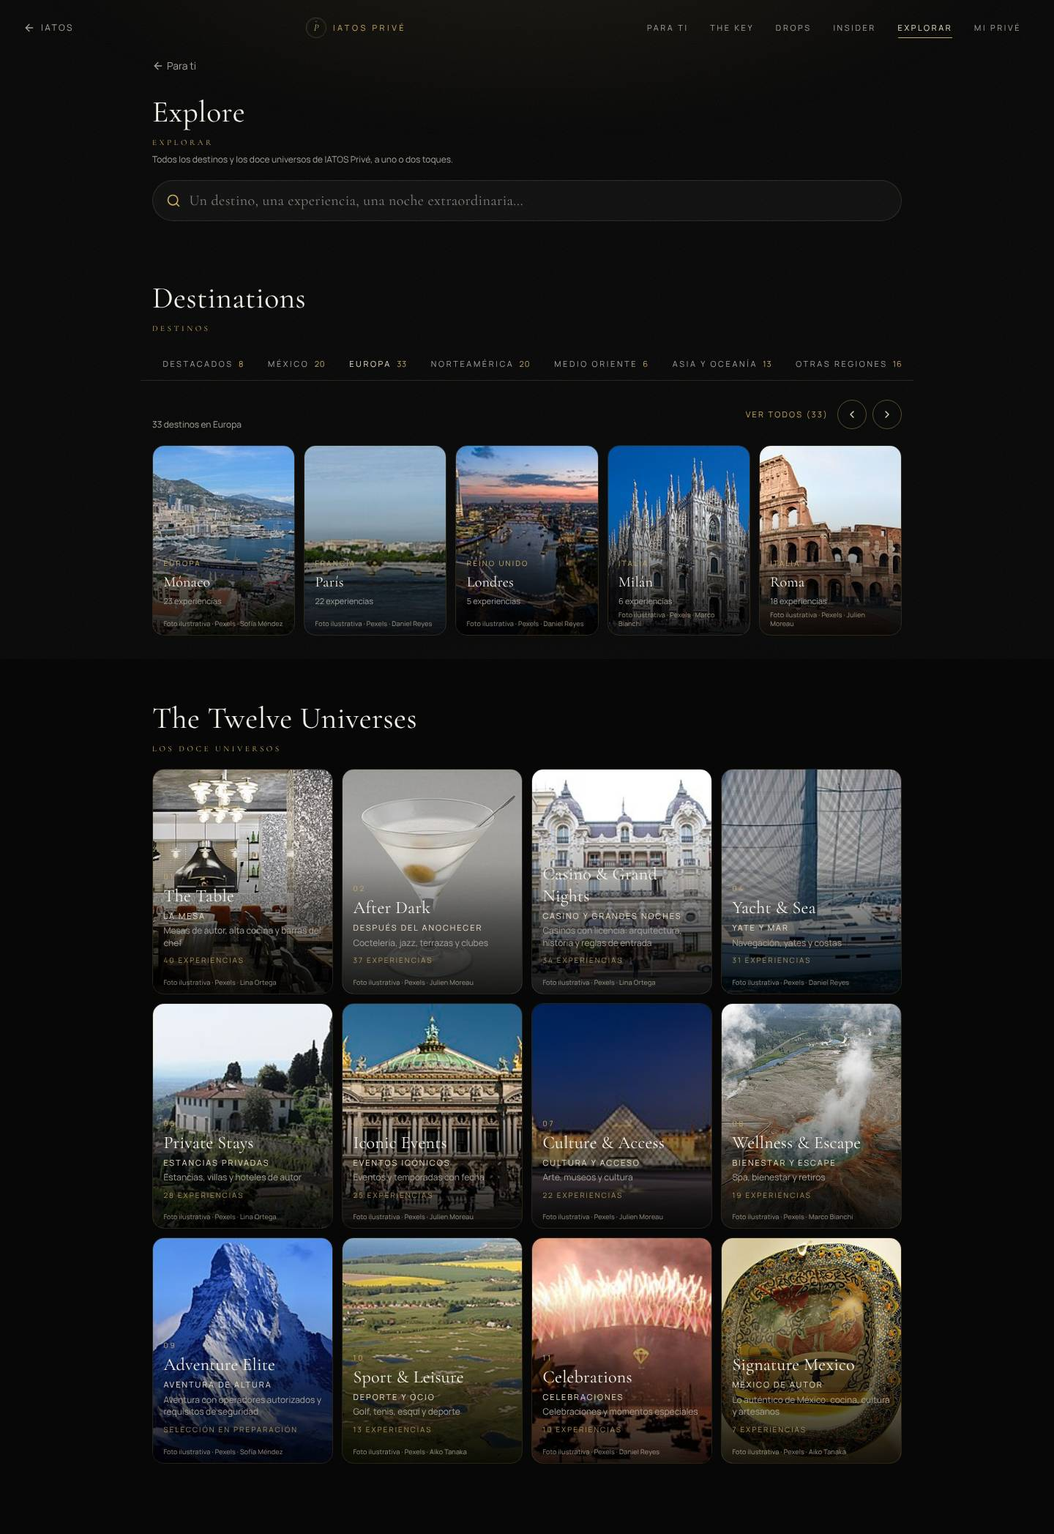
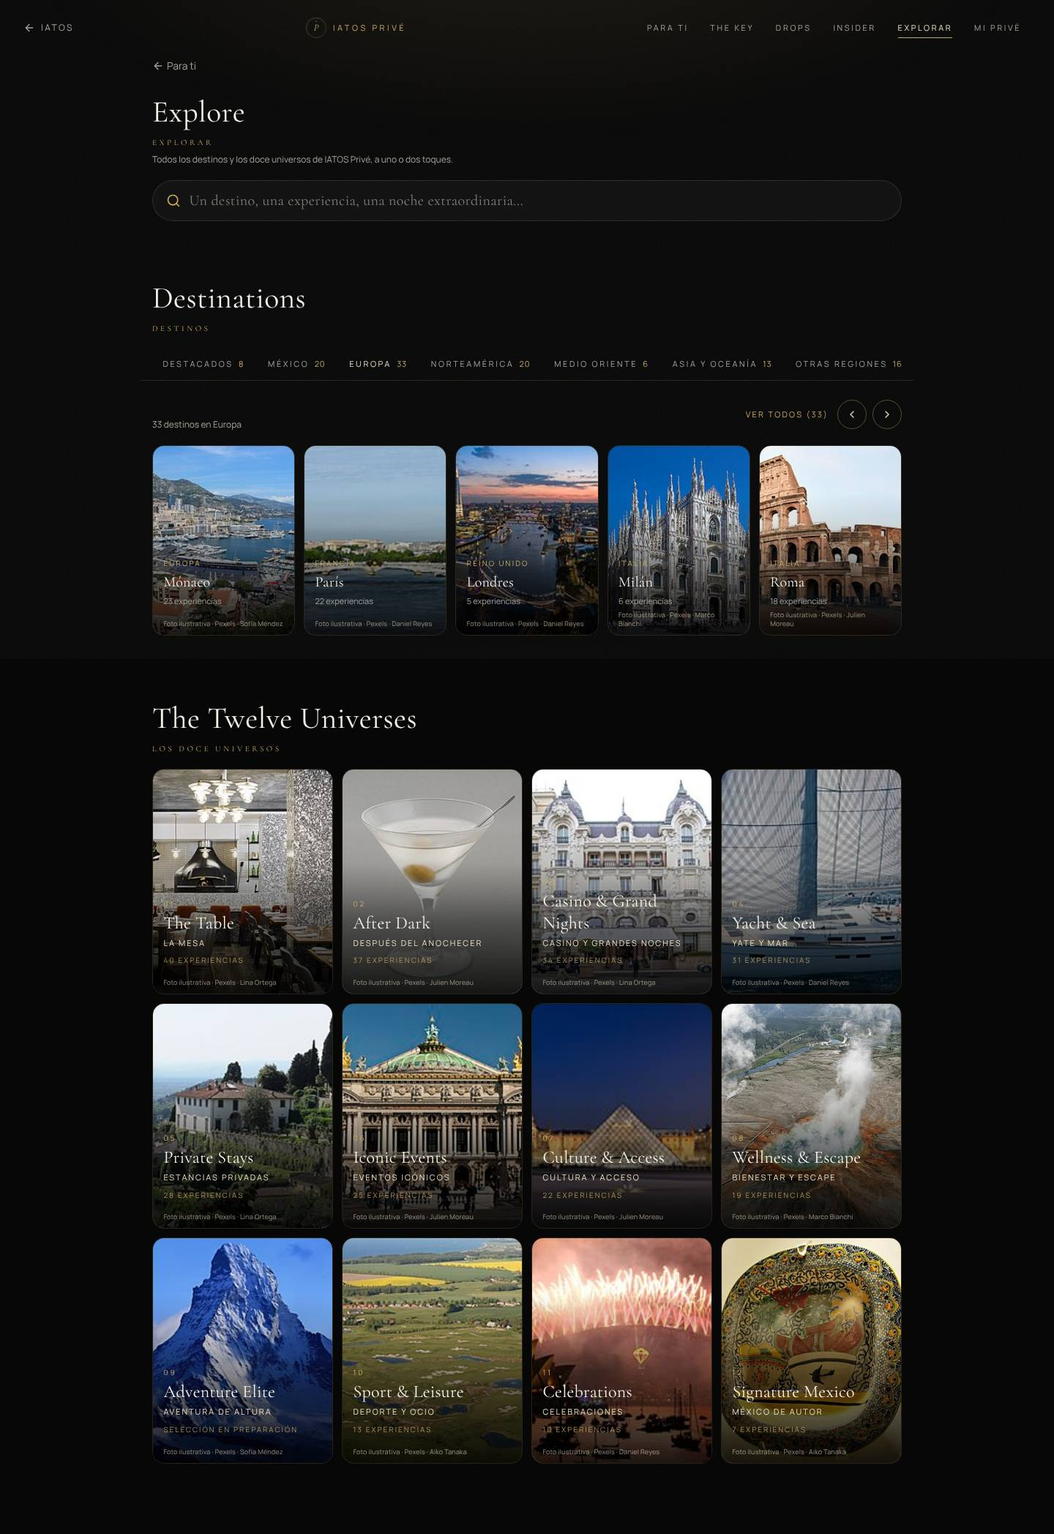
Privé reimaginado: reporte de prive-ux, E2E 26/26, capturas finales y ajustes de móvil
Claude-Session: https://claude.ai/code/session_01GcD1is1yKfb8FqzW8huxBy

diff --git a/src/components/prive/home/sections.tsx b/src/components/prive/home/sections.tsx
@@ -85,7 +85,6 @@ export function TwelveUniverses({ universes, layout = "grid" }: { universes: { k
               <p className="text-[10px] tracking-[0.3em] prive-gold">{String(i + 1).padStart(2, "0")}</p>
               <p className="prive-serif text-2xl leading-tight mt-1">{u.name}</p>
               {u.sub && <p className="text-[11px] tracking-[0.18em] uppercase prive-champagne mt-1">{u.sub}</p>}
-              <p className="text-[12px] prive-muted leading-snug mt-1 line-clamp-2">{u.es}</p>
               <p className="text-[10px] tracking-[0.2em] uppercase prive-gold mt-2 opacity-80">{n > 0 ? t.common.experiences(n) : t.explore.preparing}</p>
             </div>
           </PrivePhoto>

diff --git a/src/components/prive/prive.css b/src/components/prive/prive.css
@@ -257,6 +257,7 @@
 .prive-search input { flex: 1; min-width: 0; background: transparent; border: 0; outline: none; color: var(--pv-text);
   font-family: var(--pv-serif); font-size: 1.25rem; letter-spacing: 0.02em; }
 .prive-search input::placeholder { color: rgba(168, 162, 153, 0.75); }
+@media (max-width: 639px) { .prive-search input { font-size: 1.05rem; } }
 .prive-search input::-webkit-search-cancel-button { display: none; }
 /* El anillo va en la cápsula (focus-within), no un rectángulo dentro de ella. */
 .prive-root .prive-search input:focus-visible { outline: none; }

diff --git a/docs/iatos/prive_reimagined/prive-ux.md b/docs/iatos/prive_reimagined/prive-ux.md
@@ -1,0 +1,193 @@
+# IATOS Privé · The World Reimagined · reporte de prive-ux
+
+Rama: `claude/wc-prive-ux`, construida sobre `claude/iatos-world-class` con `claude/cierre-auditoria` unida (los cambios del líder en contraseña y sesión Privé siguen intactos). No hubo push, despliegue, migración ni producción.
+
+Alcance: Documento A completo para las áreas de prive-ux más el shell de seis áreas del Documento B §4: FOR YOU (maquetación), EXPLORE, fichas, sistema de fotos, tarjetas, MY PRIVÉ (visual), idioma, móvil, las tres propuestas de portada y los casos E2E 1–26.
+
+## Resumen
+
+- **Primera pantalla.** Foto a sangre completa del destino de tu próximo viaje, o de un destino emblemático que cambia en cada visita. Encima: IATOS PRIVÉ, **The World, Beyond Ordinary.** con su subtítulo en español, una línea personal ("Rodrigo, tu próximo capítulo: Ciudad de México."), los botones **Explora tu mundo** y **Pregúntale a Iato**, y la búsqueda universal, que a 390 px ya se ve sin desplazarse.
+- **Sin listas infinitas.** A 390 px, el hub pasó de **10,624 px** de tarjetas de texto a unas cinco pantallas de carruseles con foto. Cualquier destino queda a dos acciones (escribir y tocar, o pestaña y tarjeta) y cualquier ficha a tres desde la búsqueda.
+- **Ninguna tarjeta queda vacía.** La causa raíz de las fotos faltantes está corregida (ver §4). Si de verdad no hay foto, aparece un respaldo de marca con el nombre en filigrana.
+- **Idioma.** El texto está en español por omisión y en inglés si el idioma principal de la persona es inglés. Las marcas se quedan en inglés con subtítulo en español.
+- **Seis áreas.** FOR YOU · THE KEY · PRIVÉ DROPS · INSIDER · EXPLORE · MY PRIVÉ, con rutas propias. THE KEY, DROPS e INSIDER son, por ahora, páginas honestas de "en preparación" con ranuras listas para los equipos `privekey` y `privevalor`.
+- **E2E 26/26 PASS** contra vite local con servidor simulado. Pruebas unitarias nuevas: `priveUx.test.tsx` (23) y `priveReimagined.test.tsx` (15).
+
+## 1. Fase 0: diagnóstico verificado en HEAD
+
+| # | Hallazgo de ChatGPT | Verificación en el código | Estado |
+|---|---|---|---|
+| 1 | Portada vacía, solo texto | `PriveHub.tsx` (antes): `<h1>` con "The World, Beyond Ordinary." sobre negro, sin imagen. Captura `antes-hub-*.jpg` | CONFIRMADO → CORREGIDO (`PriveHero.tsx`) |
+| 2 | Destinos = lista enorme sin fotos | `hubSections.tsx` (antes): `GROUPS.map` con todas las regiones abiertas y `prive-tile` de solo texto, unos 108 destinos. `antes-hub-390.jpg`: 10,624 px de alto | CONFIRMADO → CORREGIDO |
+| 3 | PriveImage puede dejar un bloque vacío | `PriveImage.tsx` (antes): sin foto dibujaba `<div className="h-full w-full" aria-hidden>` vacío; un 429 quedaba en caché como "sin foto" | CONFIRMADO → CORREGIDO (`PrivePhoto.tsx`) |
+| 4 | Universos como botones de texto | `CatalogHome`: `prive-btn-ghost` "THE TABLE · 412" | CONFIRMADO → CORREGIDO |
+| 5 | UniverseTiles sin navegación | `UniverseTiles.tsx`: `<li>` sin enlace | CONFIRMADO → CORREGIDO (`TwelveUniverses`: 12 enlaces; UniverseTiles solo queda para el adelanto y "en curaduría") |
+| 6 | Universos duplicados con las colecciones de abajo | Fichas de universo arriba y `UniverseTiles` abajo en el mismo hub | CONFIRMADO → CORREGIDO (FOR YOU: The Extraordinary Edit; los 12 universos, solo en EXPLORE) |
+| 7 | Sin explorador global | No existía | CONFIRMADO → CORREGIDO (`UniversalSearch` + `/prive/explorar`) |
+| 8 | Contadores con demasiado protagonismo | "25 experiencias · Selección en crecimiento" en cada tarjeta | CONFIRMADO → CORREGIDO (relación geográfica primero; el conteo, secundario; cobertura solo cuando advierte algo) |
+| 9 | El escritorio desaprovecha el espacio | Una columna `max-w-5xl` de texto | CONFIRMADO → CORREGIDO (portada a sangre completa, rejilla editorial, carriles) |
+| 10 | No prioriza el viaje activo | El hub no leía el viaje | CONFIRMADO → CORREGIDO (portada, Curated for You y Your Next Journey usan el viaje activo resuelto con `resolveActiveTrip`; nunca otro viaje) |
+
+## 2. Qué se construyó (por fase)
+
+| Fase | Entrega | Archivos |
+|---|---|---|
+| 1 Portada | Portada cinematográfica (destino del viaje o emblemático que rota; Ken Burns; video ilustrativo de Pexels solo con movimiento permitido y sin ahorro de datos). Búsqueda universal bajo la portada. Curated for You (3–6). The Extraordinary Edit (8 colecciones que abren universos existentes; se ocultan las que no tienen contenido publicable). Your Next Journey con sus cuatro acciones, o "Planear un viaje" si no hay viaje. | `PriveHero.tsx`, `home/ForYouHome.tsx`, `home/sections.tsx`, `home/defaults.tsx`, `home/UniversalSearch.tsx` |
+| 2 Navegación | Seis áreas. En escritorio, arriba. En el teléfono, una barra inferior con cinco (Para ti, The Key, Explorar, Drops, Mi Privé) e Insider en la barra superior: las seis a un toque. Área activa con `aria-current`. Filtros y búsqueda en la URL. "Pregúntale a Iato" abre el Concierge existente con la pregunta escrita (`?ask=`), no un chatbot nuevo. | `shell/PriveNav.tsx`, `PriveRoot.tsx`, `lib/priveLinks.ts`, `pages/Concierge.tsx` (una línea) |
+| 3 Destinos | Destacados (6–8, con contenido). Pestañas por región, una a la vez, con carrusel e índice compacto "Ver todos (N)". Búsqueda con alias, acentos e idiomas. Relación geográfica correcta: Polanco → "Barrio de Ciudad de México"; Montecarlo → "Zona de Mónaco"; Punta Mita → "En Riviera Nayarit"; Interlomas → "Área metropolitana de Ciudad de México"; Riviera Nayarit → "Región · México". | `catalog/DestinationBrowser.tsx`, `lib/priveBrowse.ts`, `lib/priveDestinationIndex.ts` (generado) |
+| 4 Universos | Doce universos con foto, marca + subtítulo, descripción y número de orden, todos navegables. Página de universo con portada, filtro por destino (en la URL) y destinos relacionados. Sin contenido: "Selección en preparación". | `home/sections.tsx` (`TwelveUniverses`), `PriveUniversePage.tsx` |
+| 5 Tarjetas | FEATURED EXPERIENCE (Descubrir y Guardar a la vista), DESTINATION, EDITORIAL COLLECTION (rejilla de revista 2×2 + 1 + 4 + 2) y COMPACT EXPERIENCE (búsqueda). | `home/defaults.tsx`, `home/UniversalSearch.tsx`, `catalog/DestinationBrowser.tsx` |
+| 6 Fotos | Ver §4. | `PrivePhoto.tsx`, `lib/privePhoto.ts`, `lib/stockPhoto.ts`, `pexels-image` |
+| 7 Ficha | Portada más grande, "Por qué merece la pena" destacado y acciones a la vista: **Guardar en Mi Privé · Agregar a mi viaje · Solicitar con Iato · Ver opciones de reserva** (sitio oficial, otra pestaña) **· Pregúntale a Iato**. Al final, "Más en <ciudad>". | `catalog/ExperienceDetail.tsx`, `catalog/MoreInDestination.tsx`, `PriveExperiencePage.tsx` |
+| 8 Make it extraordinary | Lanzador de The Privé Key en FOR YOU (texto → `/prive/key?q=…&destino=…`). El organizador completo es de `privekey`. | `home/defaults.tsx` (`PriveKeyLauncher`) |
+| 9 Mi Privé | `/prive/mi`: tarjeta, Pasaporte (ranura), guardados con foto, solicitudes abiertas, el valor de tu Privé (ranura) y preferencias y seguridad (las secciones de membresía de siempre). `/prive/membresia` se conserva. | `PriveMyPage.tsx`, `PriveMembership.tsx` (`embedded`) |
+| 10 WOW | La Grand Welcome aparece solo la primera vez (sin cambios de lógica). Transiciones suaves con movimiento reducido. No se dice "Tonight, somewhere extraordinary" porque no hay contenido fechado suficiente. | — |
+| 11 Móvil | Revisado a 320, 375, 390, 412, 768, 1024 y 1440 px sin desplazamiento horizontal (E2E 22). Botones de al menos 44 px. La barra inferior no tapa acciones: el contenido deja libre su alto. | `prive.css` |
+| 12 Scroll | 6–8 destacados en la portada y el resto en el explorador. "Ver más" de 9 en 9. Estado restaurable en la URL (`?q=`, `?region=`, `?u=`, `?destino=`) y enlaces profundos. | `catalog/ShowMore.tsx` |
+| 13 Tres propuestas | Ver §3. | `home/ForYouHome.tsx`, `PriveHero.tsx` |
+
+## 3. Tres propuestas de portada (las tres funcionan con los mismos datos)
+
+Para verlas: `/prive?portada=a`, `?portada=b` o `?portada=c` (por omisión, c). Capturas: `despues-home-{a,b,c}-{390,1440}.jpg`.
+
+- **A · A PRIVATE EDITORIAL.** Portada de revista en dos columnas: número de edición, titular serif grande y foto vertical; la experiencia de la semana va primero.
+- **B · CONTEMPORARY PRIVATE CLUB.** Saludo de club con "Miembro desde", cuatro accesos directos (The Key, Drops, Insider, Explorar) y listas compactas.
+- **C · CINEMATIC JOURNEY.** Foto o video a sangre completa, búsqueda sobre el borde de la portada y carriles de imagen.
+
+Medido con Playwright contra vite local con datos simulados (servidor de desarrollo: el LCP es indicativo y varía con la carga de la máquina):
+
+| Criterio | A | B | C |
+|---|---|---|---|
+| Búsqueda visible en la primera pantalla a 390 px | No (886 px) | No (874 px) | **Sí (711 px)** |
+| Búsqueda visible a 1440 px | Sí | Sí | Sí |
+| Acciones en la primera pantalla | 10–11 | **15** | 12 |
+| CLS (390 / 1440) | 0 / 0.002 | 0.002 / 0.002 | 0.007 / 0.002 |
+| Imágenes de Pexels en la primera pantalla | 4–5 | **1** | 2 |
+| Prestigio (dirección de arte, pedido del dueño: "cinematográfico, élite") | Alto (revista) | Medio (parece tablero) | **Muy alto** |
+| Accesibilidad (axe, graves) | 0 | 0 | 0 |
+| Compatibilidad (ranuras de los otros equipos, móvil) | Sí | Sí | Sí |
+
+**Elegida: C.** Es la única que cumple la meta de Fase 15 "primera pantalla con búsqueda y contenido útil" también en el teléfono, y la que mejor responde al pedido del dueño ("algo único, élite, que dé ganas de pertenecer"). Lo hace con dos imágenes en la primera pantalla y sin saltos de diseño. B queda como respaldo si se prefiere la utilidad sobre la emoción, y A como versión editorial para campañas.
+
+## 4. Fotos: causa raíz y arreglo (Fase 6)
+
+**Causa raíz.** Se reproduce en `antes-welcome-390.jpg`: Ciudad de México, Nueva York y Roma salen vacías con la "P".
+
+1. La Grand Welcome (`priveApi.illustrativePhoto`) y las tarjetas del catálogo (`PriveImage`) llamaban a `pexels-image` por su cuenta, sin la fila compartida de `stockPhoto.ts` (20 por minuto, 3 a la vez, pausa tras 429). El servidor permite 30 por minuto por persona y contaba también los aciertos de caché, así que cualquier ráfaga devolvía 429.
+2. Un 429, o un fallo de Pexels mismo (cuota de 200 por hora de la llave), se quedaba como "sin foto" para siempre. Además, `pexels-image` respondía `200 + image:null` cuando Pexels fallaba, que es igual a "no hay foto"; el navegador lo recordaba toda la sesión.
+3. La lista de destinos ni siquiera pedía foto, y la portada del destino usaba "<name_en> skyline", que no sirve para islas, valles ni barrios.
+
+**Arreglo.**
+- `PrivePhoto` y `privePhoto.ts`: todo pasa por `loadStockPhoto`, con la misma fila y la misma caché de sesión. Cada destino tiene una cadena de consultas: curada → "<ciudad> <país>" → "<ciudad>". Un fallo temporal no se recuerda y se reintenta a los 4, 15 y 45 s. La foto se pide solo cuando la tarjeta está en pantalla (margen vertical, no a la derecha del carrusel) y se muestra con una transición suave y alto reservado (sin saltos de diseño). Si de verdad no hay foto, aparece el respaldo de marca. El crédito "Foto ilustrativa · Pexels · <fotógrafo>" va en cada foto: como texto dentro de tarjetas enlazadas (un enlace anidado abría otra pestaña) y como enlace en portadas.
+- `pexels-image` (**requiere desplegar la función**):
+  - la caché va antes del límite estricto, con un límite propio y amplio para aciertos;
+  - si Pexels falla, sirve la copia vencida o responde `503 + Retry-After` con `upstream_error`;
+  - la respuesta de Pexels se lee con tolerancia a errores.
+- El índice de destinos (`scripts/prive/gen_destination_index.mjs` → `src/lib/priveDestinationIndex.ts`, 111 destinos) guarda el nombre en inglés, el país, los alias, el barrio o zona, la zona metropolitana y las consultas de foto.
+- Mientras la bienvenida o la guía están abiertas, el hub no se monta, así que las seis ciudades se atienden primero.
+- Fotos reales del establecimiento: no hay fuente con derechos verificados en el repositorio, así que todas siguen marcadas como ilustrativas, como pide la Fase 6. Las capturas de evidencia usan fotos de Wikipedia como sustituto local de las respuestas de Pexels (servidor simulado); no se usan en la app.
+
+## 5. Contrato con privekey y privevalor
+
+- Rutas dentro de `PriveRoot`: `/prive`, `/prive/key`, `/prive/drops`, `/prive/insider`, `/prive/insider/:destino`, `/prive/explorar` y `/prive/mi` (`/prive/membresia` se conserva). Están en `App.tsx`.
+- `src/components/prive/key/index.ts` (**stub de prive-ux; lo reemplaza privekey**) exporta `PriveKeyLauncher`, `YourWorldIsReady`, `CuratedForYou` y `YourNextJourney`. Por ahora reexporta las versiones funcionales de `src/components/prive/home/defaults.tsx`; `YourWorldIsReady` no dibuja nada.
+- `src/components/prive/value/index.ts` (**stub; lo reemplaza privevalor**) exporta `PrivateEditTeaser`, `DropsTeaser`, `PassportCard` y `ValueOfYourPrive`. Hoy devuelven `null`: no se inventan oportunidades ni valores.
+- Páginas stub (las reemplazan sus dueños): `PriveKeyPage.tsx`, `PriveDropsPage.tsx` y `PriveInsiderPage.tsx`. Muestran "En preparación", la marca con su subtítulo y "Pregúntale a Iato"; nunca una página vacía.
+- Contexto para las ranuras, sin props: `usePriveHome()` (datos de prive_home) y `usePriveTrip()` (viaje activo y su destino de Privé) en `src/components/prive/home/context.tsx`.
+- `The Privé Key` recibe `?q=<texto>&destino=<slug>` desde el lanzador y desde la tarjeta del viaje ("Organizar una noche").
+- Nuevo en `priveCatalogApi`: `search()` (prive_search existente) y `limit` opcional en `universe()` y `forYou()`. Son RPC existentes; no hay cambios de base de datos.
+
+## 6. Idioma
+
+- `src/lib/priveI18n.ts`: diccionario es/en tipado (la misma forma en los dos idiomas; lo comprueba una prueba).
+- Cómo se decide el idioma (`resolvePriveLang`): 1) un campo de idioma del perfil, cuando exista (`profiles` no lo tiene hoy), 2) `navigator.languages`, 3) español.
+- `PriveLangProvider` pone `lang="es-MX"` o `lang="en"`.
+- Marcas en inglés con subtítulo: IATOS PRIVÉ, The World, Beyond Ordinary., Curated for You, The Extraordinary Edit, Your Next Journey, The Privé Key, Privé Drops, Insider, los doce universos y las ocho colecciones.
+- Pendientes de otros dueños:
+  - `LockScreen.tsx` y `PasswordCreator.tsx` (del líder) siguen solo en español; sus errores cambian de idioma por `messageFor`.
+  - El correo de invitación (`_shared/priveEmail`) conserva sus líneas en inglés.
+
+## 7. E2E (Fase 15) · Playwright contra vite local, servidor simulado, sin sesiones reales
+
+Resultado: **26/26 PASS** (`docs/iatos/prive_reimagined/prive-ux-e2e.json`). En la primera corrida fallaron dos casos: el 10, por un selector de la prueba sensible a mayúsculas, y el 24, por CLS 0.122. El 24 era un defecto real y está corregido en §8.
+
+| # | Caso | Resultado y evidencia |
+|---|---|---|
+| 1 | Miembro ve la portada completa | 7/7 secciones; búsqueda en la primera pantalla; 0 errores JS |
+| 2 | FREE ve solo lo autorizado | Adelanto; sin barra de miembro; 0 RPC de contenido |
+| 3 | Búsqueda Mónaco | «Mónaco» → /prive/destino/mc (2 acciones) |
+| 4 | CDMX | «cdmx» → /prive/destino/cdmx |
+| 5 | Restaurante | «Quintonil» → prive_search en los 5 destinos destacados → ficha en 3 acciones |
+| 6 | Sin resultados | Lo dice, y "Pregúntale a Iato" lleva la misma frase |
+| 7 | Cambio de región | Europa, sin recargar; `?region=europa` |
+| 8 | Universo | /prive/universo/the_table, h1 "The Table" |
+| 9 | Abrir destino | Misma pestaña |
+| 10 | Abrir experiencia | Acciones a la vista |
+| 11–12 | Guardar / quitar | prive_save true y luego false; `aria-pressed` |
+| 13 | Agregar al viaje | prive_add_to_trip con el viaje activo; "queda como plan sin reservar" |
+| 14 | Solicitar con Iato | concierge-action `prive_request`; "aún no es una reserva" |
+| 15 | Enlace real de reserva | `target=_blank` externo; Privé sigue en su pestaña |
+| 16 | Regresar a Privé | Atrás → la misma región seleccionada |
+| 17 | Mi Privé | Tarjeta, guardados y solicitudes |
+| 18 | Foto inexistente | 0 cajas vacías, 0 imágenes rotas, respaldo de marca |
+| 19 | Servicio de fotos caído (503) | 0 cajas vacías, 0 rotas; reintento sin errores |
+| 20 | Datos obsoletos | "Por verificar…" en gris; sin "Solicitar" (prueba unitaria) |
+| 21 | Sesión Privé vencida | Candado; sesión local borrada |
+| 22 | Móvil | 7 anchos × 5 pantallas sin desplazamiento horizontal |
+| 23 | Accesibilidad (axe WCAG 2.1 AA) | 0 violaciones graves o críticas en 5 pantallas |
+| 24 | Rendimiento | CLS 0.01 (antes 0.122); LCP 1.5 s en el servidor de desarrollo (indicativo) |
+| 25 | Teclado | Pestañas con flechas, Inicio y Fin; foco visible |
+| 26 | Movimiento reducido | Sin Ken Burns, sin video, `data-motion=reduced` |
+
+Scripts (en el scratchpad de la sesión, no versionados): `e2e.cjs`, `mock.cjs`, `shoot2.cjs` y `variants.cjs`.
+
+## 8. Rendimiento
+
+- **CLS de la portada: 0.122 → 0.01.** Había tres causas:
+  - el margen negativo de la búsqueda colapsaba hacia el contenedor;
+  - la barra superior cambiaba de flujo;
+  - la portada cambiaba de foto y de texto al saber si había viaje.
+
+  Ahora hay alto reservado, desplazamiento relativo y la portada espera al viaje.
+- Las fotos se piden solo al verse y con la fila compartida: en la primera pantalla de la portada C hay 2 imágenes de Pexels.
+- El video de la portada se pide solo con movimiento permitido y sin ahorro de datos, y aparece cuando ya puede reproducirse.
+- Todo Privé va en chunks perezosos; el paquete de entrada no crece (ver el build).
+
+## 9. Pruebas
+
+- `src/test/priveUx.test.tsx` (23): idioma (es por omisión; en por navegador o perfil; llaves iguales), Grand Welcome sin inglés para quien usa español, cadena de fotos, fallos temporales no recordados, nunca una caja vacía, búsqueda sin acentos, pestañas, "Ver más", portada, Curated for You con y sin viaje, Next Journey, sin `target=_blank` interno y sin enlaces anidados.
+- `src/test/priveReimagined.test.tsx` (15): búsqueda universal ("Una cena romántica en París.", "Lo mejor de Mónaco.", "Yates en Los Cabos.", "Un rooftop… en Nueva York.", "Experiencias únicas en Japón.", Quintonil, Polanco, Montecarlo, roma norte), relaciones geográficas, las seis áreas, adelanto sin navegación de miembro, ranuras del contrato, búsqueda → ficha en 3 acciones, sin resultados → Iato, las tres propuestas, Explorar con la región en la URL, universo con filtro por destino y Mi Privé.
+- Se actualizaron las pruebas existentes que esperaban las líneas en inglés o los textos de relleno. Ninguna se debilitó: las negativas ("no hay Agregar a mi viaje en una ficha vieja") tienen ahora su par positivo.
+- **Suite completa** (`npx vitest run --testTimeout=30000`, con la máquina compartida a carga ~50): 163 archivos, **1535 de 1536 pasan**. La única falla, `serpQuota.test.ts › búsquedas idénticas…`, no es de Privé: depende del tiempo y pasa sola (12/12). Hay 7 rechazos no manejados de `TripBookingIntents.tsx` (`.not` no está en el doble de supabase), también ajenos a Privé. Las suites de Privé dan 19 archivos y 309/309.
+- **`npx tsc --noEmit -p tsconfig.app.json`**: limpio. **`npm run build`**: OK; Privé va en chunks aparte y la entrada no cambia de forma apreciable. **`deno check` de pexels-image**: OK.
+
+## 10. Requiere autorización para producción
+
+- **Desplegar `pexels-image`** (supabase/functions/pexels-image/index.ts): caché antes del límite y `503 + Retry-After` cuando Pexels falla. Pasa `deno check`. Sin el despliegue, el cliente igual mejora (fila compartida, cadena de consultas, reintentos), pero un fallo de Pexels todavía llega como "sin foto" mientras corra la versión vieja de la función.
+- **Sin migraciones.** No se tocó la base de datos.
+
+## 11. Mejoras adicionales ("GOD TIER")
+
+- `Concierge.tsx` acepta `?ask=` para dejar escrita la pregunta de "Pregúntale a Iato" sin enviarla (una línea, aditiva).
+- Ya no se anidan enlaces en las tarjetas del catálogo: el crédito de Pexels dentro de la tarjeta abría otra pestaña al tocar la foto, y era probablemente la "pestaña nueva" que vio el dueño en la vista previa.
+- "Selección en crecimiento" desaparece de tarjetas y portadas: la cobertura solo se dice cuando advierte algo.
+- Prueba de la Grand Welcome más estable (antes fallaba a veces en la rama base: el temporizador se programaba después de `findByRole`).
+- El idioma de las pruebas queda fijado en es-MX en `src/test/setup.ts` (jsdom decía en-US).
+
+## 12. Riesgos y pendientes
+
+- Las fotos de experiencias siguen siendo ilustrativas (Pexels). Fotos del lugar requieren fuente con derechos verificados, decidida por una persona (`verified_image`).
+- "Para ti" sin viaje usa el universo con más contenido, ordenado por el servidor con las señales de la persona, y lo dice como "Selección editorial". La personalización completa la entrega `privekey`.
+- `prive_search` registra eventos `iato_pick_shown` con superficie `iato` también cuando la búsqueda viene de la portada. Conviene una superficie propia (aditivo, del grupo de catálogo).
+- El LCP se midió en el servidor de desarrollo; falta medirlo con Lighthouse sobre un build en un entorno sin la carga de los demás grupos.
+- **GO** para integrar las áreas de prive-ux en desarrollo. **NO-GO a producción** hasta desplegar `pexels-image`, integrar las ranuras de `privekey` y `privevalor`, y aprobar las capturas.
+
+## 13. Capturas (`docs/iatos/evidencia/prive-ux/`)
+
+- Antes (`f62466e`):
+  - `antes-welcome-{390,1440}.jpg`: tres ciudades vacías, en inglés;
+  - `antes-hub-{390,1440}.jpg`: lista de 10,624 px;
+  - `antes-destino-{390,1440}.jpg`.
+- Después:
+  - `despues-home-{a,b,c}-{390,1440}.jpg`, `despues-home-c-en-US-*` y `despues-home-sin-viaje-*`;
+  - `despues-busqueda-*`, `despues-explorar-*`, `despues-universo-*`, `despues-destino-*`, `despues-experiencia-*`, `despues-mi-*` y `despues-welcome-*`.
